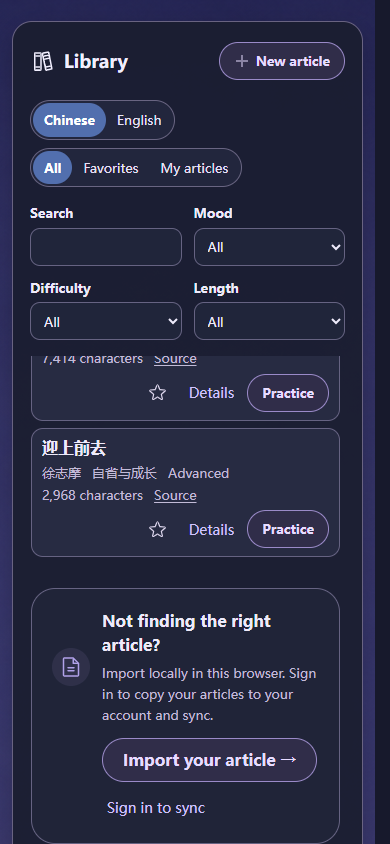
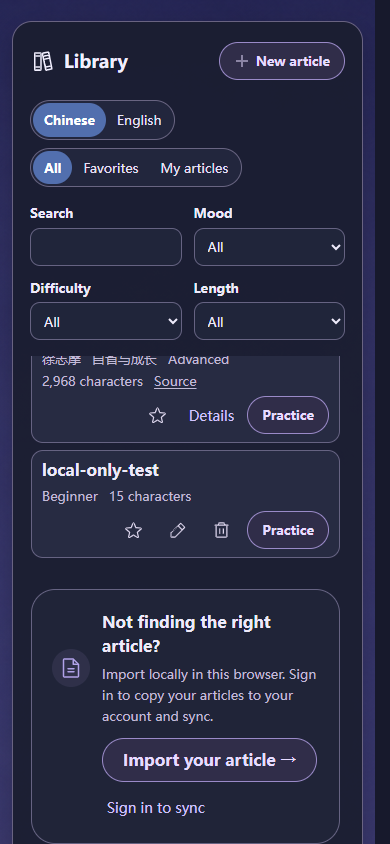
feat: acknowledge browser-local guest article storage

diff --git a/src/components/ArticleLibrary.tsx b/src/components/ArticleLibrary.tsx
@@ -58,8 +58,14 @@ function readTxt(file: File, t: (zh: string, en: string) => string) {
   });
 }
 
-function ArticleEditor({ article, initialLanguage, onSave, onClose }: {
+const guestArticleNoticeKey = 'typelune.guest-article-notice.v1';
+function hasGuestArticleAcknowledgement() {
+  try { return localStorage.getItem(guestArticleNoticeKey) === 'acknowledged'; } catch { return false; }
+}
+
+function ArticleEditor({ article, initialLanguage, onSave, onClose, notice }: {
   article: PrivateArticle | null;
+  notice?: string;
   initialLanguage: Language;
   onSave: (article: PrivateArticle) => Promise<void>;
   onClose: () => void;
@@ -144,6 +150,7 @@ const difficultyNames: Record<Difficulty, string> = { beginner: t("入门", "Beg
         <button type="button" className="primary-button" onClick={() => confirmation.type === 'discard' ? onClose() : applyImport(confirmation.text, confirmation.filename)}>{confirmation.type === 'discard' ? t("放弃修改", "Discard changes") : t("替换正文", "Replace text")}</button>
       </div>
     </div> : <form className="feature-form" onSubmit={submit}>
+      {notice && <p role="status">{notice}</p>}
       <label>{t("标题", "Title")}<input value={title} maxLength={200} disabled={busy} onChange={(event) => setTitle(event.target.value)} /></label>
       <div className="feature-form-pair">
         <label>{t("语言", "Article language")}<select value={language} disabled={busy} onChange={(event) => setLanguage(event.target.value as Language)}><option value="zh">{t("中文", "Chinese")}</option><option value="en">English</option></select></label>
@@ -178,6 +185,24 @@ const lengthRanges = [
   const [difficulty, setDifficulty] = useState('');
   const [length, setLength] = useState('');
   const [editor, setEditor] = useState<PrivateArticle | null>();
+  const [showGuestNotice, setShowGuestNotice] = useState(false);
+  const [rememberGuestNotice, setRememberGuestNotice] = useState(false);
+  const [guestNoticeStorageFailed, setGuestNoticeStorageFailed] = useState(false);
+  function createArticle() {
+    setGuestNoticeStorageFailed(false);
+    if (isSignedIn || hasGuestArticleAcknowledgement()) { setEditor(null); return; }
+    setRememberGuestNotice(false);
+    setShowGuestNotice(true);
+  }
+  function continueGuestArticle() {
+    if (rememberGuestNotice) {
+      try { localStorage.setItem(guestArticleNoticeKey, 'acknowledged'); }
+      catch { setGuestNoticeStorageFailed(true); }
+    }
+    setShowGuestNotice(false);
+    setEditor(null);
+  }
+  useEffect(() => { if (isSignedIn) setShowGuestNotice(false); }, [isSignedIn]);
   const [deleting, setDeleting] = useState<ArticleSnapshot>();
   const [deletePending, setDeletePending] = useState(false);
   const [deleteError, setDeleteError] = useState(false);
@@ -223,7 +248,7 @@ const lengthRanges = [
   return <section className="content-panel library feature-panel">
     <div className="content-heading">
       <h1><Books size={25} aria-hidden="true" /> {t("文章库", "Library")}</h1>
-      <button className="outline-button feature-action-button" onClick={() => setEditor(null)}><Plus size={16} aria-hidden="true" /> {t("新建文章", "New article")}</button>
+      <button className="outline-button feature-action-button" onClick={createArticle}><Plus size={16} aria-hidden="true" /> {t("新建文章", "New article")}</button>
     </div>
     <div className="feature-toolbar">
       <div className="segmented feature-segments" role="group" aria-label={t("文章语言", "Article language")}>
@@ -269,12 +294,24 @@ const lengthRanges = [
           <p>{isSignedIn ? t("导入喜欢的内容，开始自己的练习。", "Import something you love and make it your next practice.") : t("可直接导入，保存在此浏览器；登录后可导入账号并同步。", "Import locally in this browser. Sign in to copy your articles to your account and sync.")}</p>
         </div>
         <div className="library-import-actions">
-          <button type="button" className="outline-button" onClick={() => setEditor(null)}>{t("导入自己的文章", "Import your article")} <span aria-hidden="true">→</span></button>
+          <button type="button" className="outline-button" onClick={createArticle}>{t("导入自己的文章", "Import your article")} <span aria-hidden="true">→</span></button>
           {!isSignedIn && onLogin && <button type="button" className="text-button" onClick={onLogin}>{t("登录同步", "Sign in to sync")}</button>}
         </div>
       </div></li>
     </ul>
-    {editor !== undefined && <ArticleEditor article={editor} initialLanguage={language} onSave={saveArticle} onClose={() => setEditor(undefined)} />}
+    {showGuestNotice && <Dialog title={t("游客文章仅保存在本机", "Guest articles stay on this device")} onClose={() => setShowGuestNotice(false)}>
+      <div className="feature-form">
+        <p>{t("游客文章只保存在当前浏览器，不会上传服务器，也不会在其他设备显示。", "Guest articles stay in this browser. They are not uploaded to the server or available on other devices.")}</p>
+        <p>{t("清除浏览器数据或结束无痕浏览可能使文章丢失，请自行保留原文。", "Clearing browser data or ending a private-browsing session may remove your articles. Keep a copy of the original text.")}</p>
+        <p>{t("登录后新建的文章可保存并同步到账号；已有游客文章需手动导入账号。", "Articles created while signed in can sync to your account. Existing guest articles must be imported into your account separately.")}</p>
+        <label className="settings-check"><input type="checkbox" checked={rememberGuestNotice} onChange={event => setRememberGuestNotice(event.target.checked)} />{t("不再提醒", "Don't remind me again")}</label>
+        <div className="feature-actions">
+          {onLogin && <button type="button" className="outline-button" onClick={() => { setShowGuestNotice(false); onLogin(); }}>{t("登录后同步", "Sign in to sync")}</button>}
+          <button type="button" className="primary-button" onClick={continueGuestArticle}>{t("我已知晓，继续创建", "I understand, continue")}</button>
+        </div>
+      </div>
+    </Dialog>}
+    {editor !== undefined && <ArticleEditor notice={guestNoticeStorageFailed ? t("无法记住提醒设置，下次新建时仍会提醒。", "Couldn't remember this preference. You'll see this reminder next time.") : undefined} article={editor} initialLanguage={language} onSave={saveArticle} onClose={() => setEditor(undefined)} />}
     {deleting && <Dialog title={t(`删除《${deleting.title}》？`, `Delete ${deleting.title}?`)} onClose={() => { if (!deletePending) setDeleting(undefined); }}>
       <div className="feature-form">
         <p>{t("已有草稿和历史记录保留原文章快照。", "Existing drafts and history keep the original article snapshot.")}</p>

diff --git a/tests/guest-article-notice.test.tsx b/tests/guest-article-notice.test.tsx
@@ -1,0 +1,36 @@
+// @vitest-environment jsdom
+import { cleanup, fireEvent, render, screen } from '@testing-library/react';
+import { afterEach, expect, it, vi } from 'vitest';
+import { ArticleLibrary } from '../src/components/ArticleLibrary';
+import { I18nProvider, localeStorageKey } from '../src/lib/i18n';
+const props = { articles: [], favorites: [], onToggleFavorite: () => {}, onSelect: () => {}, onSave: vi.fn(), onDelete: () => {} };
+const key = 'typelune.guest-article-notice.v1';
+afterEach(() => { cleanup();vi.restoreAllMocks();localStorage.clear();props.onSave.mockClear(); });
+it.each(['新建文章','导入自己的文章'])('gates guest entry %s without writing article or preference', name => {
+ render(<ArticleLibrary {...props}/>);fireEvent.click(screen.getByRole('button',{name}));
+ expect(screen.getByRole('dialog',{name:'游客文章仅保存在本机'})).toBeTruthy();
+ expect(screen.getByText(/不会上传服务器/)).toBeTruthy();expect(screen.getByText(/清除浏览器数据/)).toBeTruthy();
+ expect(props.onSave).not.toHaveBeenCalled();expect(localStorage.getItem(key)).toBeNull();
+ fireEvent.click(screen.getByRole('button',{name:'我已知晓，继续创建'}));
+ expect(screen.getByRole('dialog',{name:'新建文章'})).toBeTruthy();expect(localStorage.getItem(key)).toBeNull();
+});
+it('remembers only explicit checked continuation, not cancellation',()=>{
+ const view=render(<ArticleLibrary {...props}/>);fireEvent.click(screen.getByRole('button',{name:'新建文章'}));
+ fireEvent.click(screen.getByLabelText('不再提醒'));fireEvent.keyDown(document,{key:'Escape'});expect(localStorage.getItem(key)).toBeNull();
+ fireEvent.click(screen.getByRole('button',{name:'新建文章'}));expect((screen.getByLabelText('不再提醒') as HTMLInputElement).checked).toBe(false);
+ fireEvent.click(screen.getByLabelText('不再提醒'));fireEvent.click(screen.getByRole('button',{name:'我已知晓，继续创建'}));expect(localStorage.getItem(key)).toBe('acknowledged');
+ view.unmount();render(<ArticleLibrary {...props}/>);fireEvent.click(screen.getByRole('button',{name:'新建文章'}));expect(screen.getByRole('dialog',{name:'新建文章'})).toBeTruthy();
+});
+it('does not persist acknowledgement when choosing login and leaves the editor closed',()=>{
+ const login=vi.fn();render(<ArticleLibrary {...props} onLogin={login}/>);fireEvent.click(screen.getByRole('button',{name:'新建文章'}));fireEvent.click(screen.getByLabelText('不再提醒'));fireEvent.click(screen.getByRole('button',{name:'登录后同步'}));
+ expect(login).toHaveBeenCalledOnce();expect(localStorage.getItem(key)).toBeNull();expect(screen.queryByRole('dialog')).toBeNull();
+});
+it('allows continuing when storage is unavailable without claiming the choice was remembered',()=>{
+ vi.spyOn(Storage.prototype,'getItem').mockImplementation(()=>{throw Error('denied')});vi.spyOn(Storage.prototype,'setItem').mockImplementation(()=>{throw Error('denied')});
+ render(<ArticleLibrary {...props}/>);fireEvent.click(screen.getByRole('button',{name:'新建文章'}));fireEvent.click(screen.getByLabelText('不再提醒'));fireEvent.click(screen.getByRole('button',{name:'我已知晓，继续创建'}));
+ expect(screen.getByRole('dialog',{name:'新建文章'})).toBeTruthy();expect(screen.getByRole('status').textContent).toContain('无法记住');
+});
+it('does not gate accounts and provides English guest copy',()=>{
+ const view=render(<ArticleLibrary {...props} isSignedIn/>);fireEvent.click(screen.getByRole('button',{name:'新建文章'}));expect(screen.getByRole('dialog',{name:'新建文章'})).toBeTruthy();view.unmount();
+ localStorage.setItem(localeStorageKey,'en');render(<I18nProvider><ArticleLibrary {...props}/></I18nProvider>);fireEvent.click(screen.getByRole('button',{name:'New article'}));expect(screen.getByRole('dialog',{name:'Guest articles stay on this device'})).toBeTruthy();expect(screen.getByRole('button',{name:'I understand, continue'})).toBeTruthy();
+});

diff --git a/e2e/guest-import.e2e.ts b/e2e/guest-import.e2e.ts
@@ -7,6 +7,9 @@ test('explicitly imports guest data, can cancel and repeat, and clears only the 
   await page.getByRole('button', { name: '文章库' }).click();
   await page.getByRole('button', { name: '收藏《背影》' }).click();
   await page.getByRole('button', { name: '新建文章' }).click();
+  await page.getByRole('dialog').waitFor();
+  const guestNotice = page.getByRole('dialog', { name: '游客文章仅保存在本机' });
+  if (await guestNotice.isVisible()) await guestNotice.getByRole('button', { name: '我已知晓，继续创建' }).click();
   const editor = page.getByRole('dialog', { name: '新建文章' });
   await editor.getByLabel('标题').fill('游客文章');
   await editor.getByLabel('正文').fill('山海相望，故人未归。');

diff --git a/e2e/article-route.e2e.ts b/e2e/article-route.e2e.ts
@@ -31,6 +31,9 @@ test('opens and shares a public article, preserves attribution and starts practi
 test('does not expose private articles through a public link and reports catalog errors', async ({ page }) => {
   await page.goto('/library');
   await page.getByRole('button', { name: '新建文章' }).click();
+  await page.getByRole('dialog').waitFor();
+  const guestNotice = page.getByRole('dialog', { name: '游客文章仅保存在本机' });
+  if (await guestNotice.isVisible()) await guestNotice.getByRole('button', { name: '我已知晓，继续创建' }).click();
   const editor = page.getByRole('dialog', { name: '新建文章' });
   await editor.getByLabel('标题').fill('私人文章');
   await editor.getByLabel('正文').fill('不能公开的文字');

diff --git a/e2e/practice.e2e.ts b/e2e/practice.e2e.ts
@@ -358,6 +358,9 @@ test('manages a live account and publishes a sourced article into the practice c
 
   await page.getByRole('button', { name: '文章', exact: true }).click();
   await page.getByRole('button', { name: '新建文章', exact: true }).click();
+  await page.getByRole('dialog').waitFor();
+  const guestNotice = page.getByRole('dialog', { name: '游客文章仅保存在本机' });
+  if (await guestNotice.isVisible()) await guestNotice.getByRole('button', { name: '我已知晓，继续创建' }).click();
   const editor = page.getByRole('dialog', { name: '新建文章' });
   const passage = articles.find((article) => article.id === 'zh-beginner-2')!;
   // Keep the published seed body distinct in the test database.

diff --git a/e2e/private-editor.e2e.ts b/e2e/private-editor.e2e.ts
@@ -4,6 +4,9 @@ test('protects private article edits and keeps the original draft snapshot after
   await page.goto('/');
   await page.getByRole('button', { name: '文章库' }).click();
   await page.getByRole('button', { name: '新建文章' }).click();
+  await page.getByRole('dialog').waitFor();
+  const guestNotice = page.getByRole('dialog', { name: '游客文章仅保存在本机' });
+  if (await guestNotice.isVisible()) await guestNotice.getByRole('button', { name: '我已知晓，继续创建' }).click();
   let editor = page.getByRole('dialog', { name: '新建文章' });
   await editor.getByLabel('标题').fill('私人练习');
   await editor.getByLabel('正文').fill('春山落雨，旧信仍在。');

diff --git a/e2e/history-filter.e2e.ts b/e2e/history-filter.e2e.ts
@@ -4,6 +4,9 @@ test('filters a real saved practice by article, language, mode and date', async 
   await page.goto('/');
   await page.getByRole('button', { name: '文章库' }).click();
   await page.getByRole('button', { name: '新建文章' }).click();
+  await page.getByRole('dialog').waitFor();
+  const guestNotice = page.getByRole('dialog', { name: '游客文章仅保存在本机' });
+  if (await guestNotice.isVisible()) await guestNotice.getByRole('button', { name: '我已知晓，继续创建' }).click();
   const editor = page.getByRole('dialog', { name: '新建文章' });
   await editor.getByLabel('标题').fill('Cloud Garden');
   await editor.getByLabel('语言').selectOption('en');

diff --git a/e2e/long-term-stats.e2e.ts b/e2e/long-term-stats.e2e.ts
@@ -3,6 +3,9 @@ import { expect, test } from './fixtures';
 test('separates practice conditions and opens records from the trend', async ({ page }) => {
   await page.goto('/library');
   await page.getByRole('button', { name: '新建文章' }).click();
+  await page.getByRole('dialog').waitFor();
+  const guestNotice = page.getByRole('dialog', { name: '游客文章仅保存在本机' });
+  if (await guestNotice.isVisible()) await guestNotice.getByRole('button', { name: '我已知晓，继续创建' }).click();
   const editor = page.getByRole('dialog', { name: '新建文章' });
   await editor.getByLabel('标题').fill('统计文章');
   await editor.getByLabel('正文').fill('山海');

diff --git a/e2e/share-card.e2e.ts b/e2e/share-card.e2e.ts
@@ -7,6 +7,9 @@ async function completePrivateEnglish(page: import('@playwright/test').Page) {
   await page.goto('/');
   await page.getByRole('button', { name: '文章库' }).click();
   await page.getByRole('button', { name: '新建文章' }).click();
+  await page.getByRole('dialog').waitFor();
+  const guestNotice = page.getByRole('dialog', { name: '游客文章仅保存在本机' });
+  if (await guestNotice.isVisible()) await guestNotice.getByRole('button', { name: '我已知晓，继续创建' }).click();
   const editor = page.getByRole('dialog', { name: '新建文章' });
   await editor.getByLabel('标题').fill(title);
   await editor.getByLabel('语言').selectOption('en');

diff --git a/e2e/history-delete.e2e.ts b/e2e/history-delete.e2e.ts
@@ -5,6 +5,9 @@ import type { Page } from '@playwright/test';
 async function practicePrivate(page: Page, title: string) {
   await page.getByRole('button', { name: '文章库' }).click();
   await page.getByRole('button', { name: '新建文章' }).click();
+  await page.getByRole('dialog').waitFor();
+  const guestNotice = page.getByRole('dialog', { name: '游客文章仅保存在本机' });
+  if (await guestNotice.isVisible()) await guestNotice.getByRole('button', { name: '我已知晓，继续创建' }).click();
   const editor = page.getByRole('dialog', { name: '新建文章' });
   await editor.getByLabel('标题').fill(title);
   await editor.getByLabel('正文').fill('山海');

diff --git a/e2e/navigation.e2e.ts b/e2e/navigation.e2e.ts
@@ -37,6 +37,9 @@ test('protects an unsaved article editor when the browser goes back', async ({ p
   await page.goto('/');
   await page.getByRole('button', { name: '文章库' }).click();
   await page.getByRole('button', { name: '新建文章' }).click();
+  await page.getByRole('dialog').waitFor();
+  const guestNotice = page.getByRole('dialog', { name: '游客文章仅保存在本机' });
+  if (await guestNotice.isVisible()) await guestNotice.getByRole('button', { name: '我已知晓，继续创建' }).click();
   const editor = page.getByRole('dialog', { name: '新建文章' });
   await editor.getByLabel('标题').fill('尚未保存');
   await page.goBack();

diff --git a/e2e/record-route.e2e.ts b/e2e/record-route.e2e.ts
@@ -4,6 +4,9 @@ import type { Page } from '@playwright/test';
 async function makeRecord(page: Page) {
   await page.goto('/library');
   await page.getByRole('button', { name: '新建文章' }).click();
+  await page.getByRole('dialog').waitFor();
+  const guestNotice = page.getByRole('dialog', { name: '游客文章仅保存在本机' });
+  if (await guestNotice.isVisible()) await guestNotice.getByRole('button', { name: '我已知晓，继续创建' }).click();
   const editor = page.getByRole('dialog', { name: '新建文章' });
   await editor.getByLabel('标题').fill('私人记录标题');
   await editor.getByLabel('正文').fill('山海');
